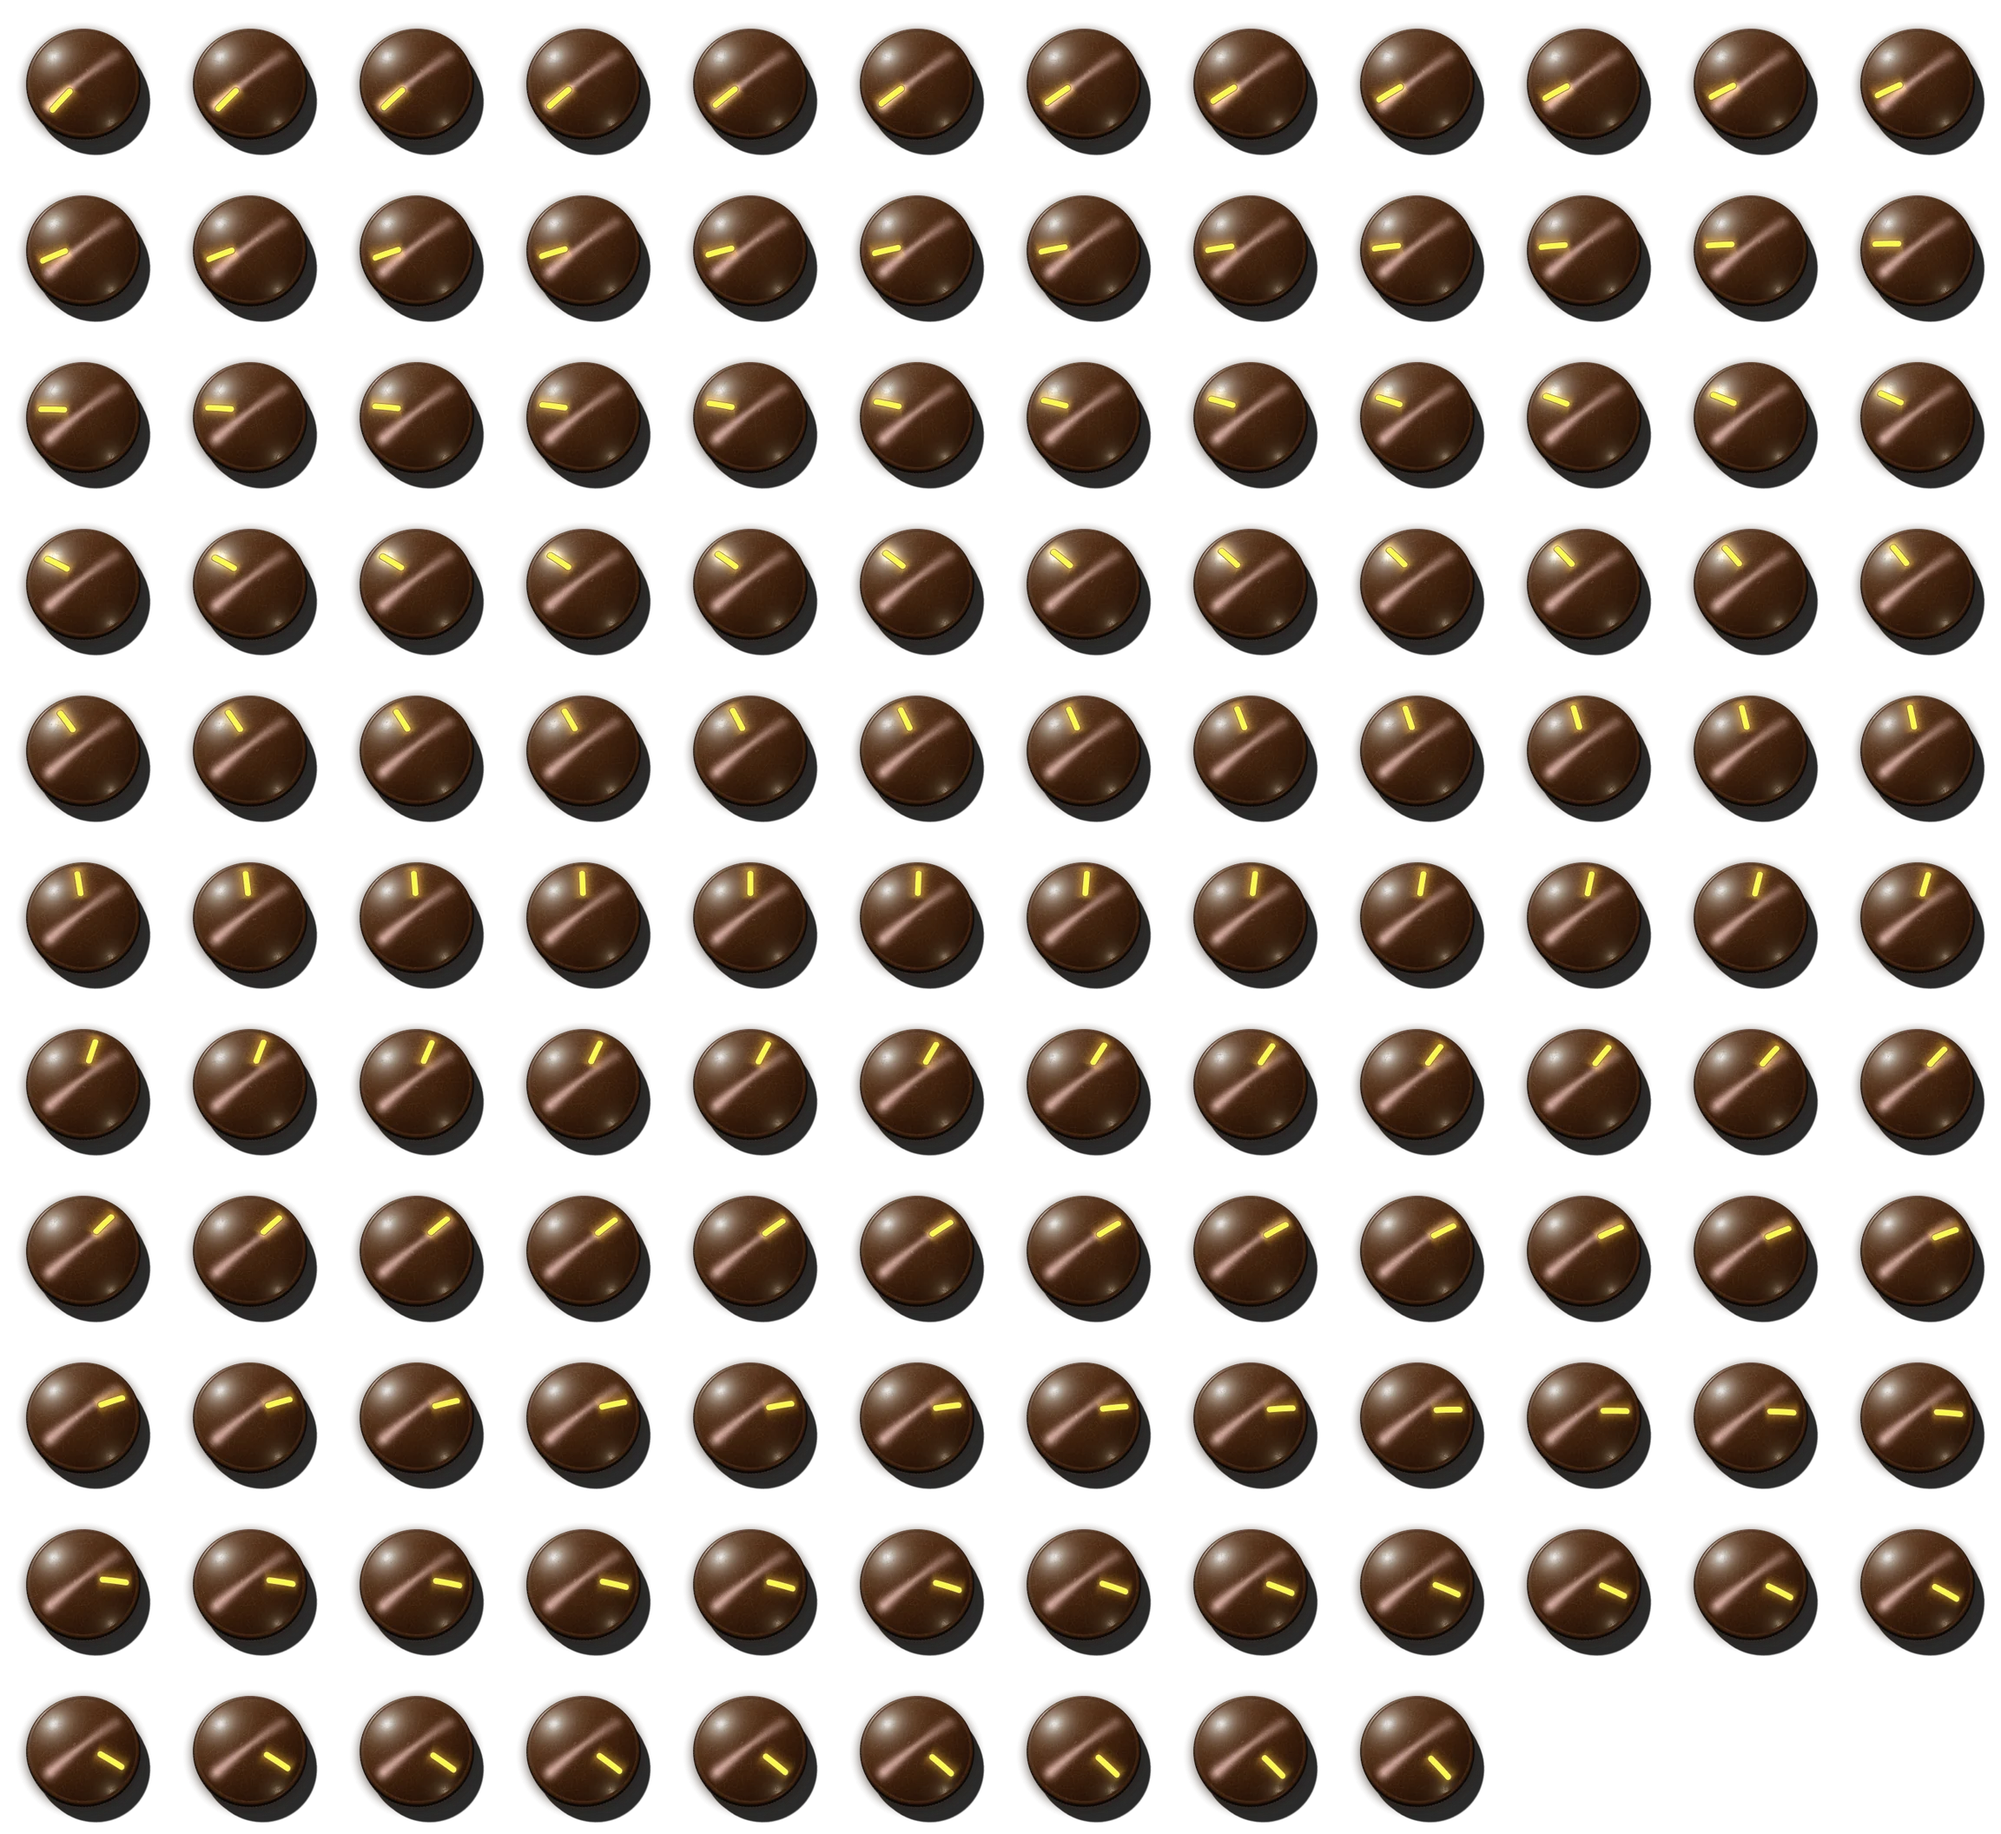
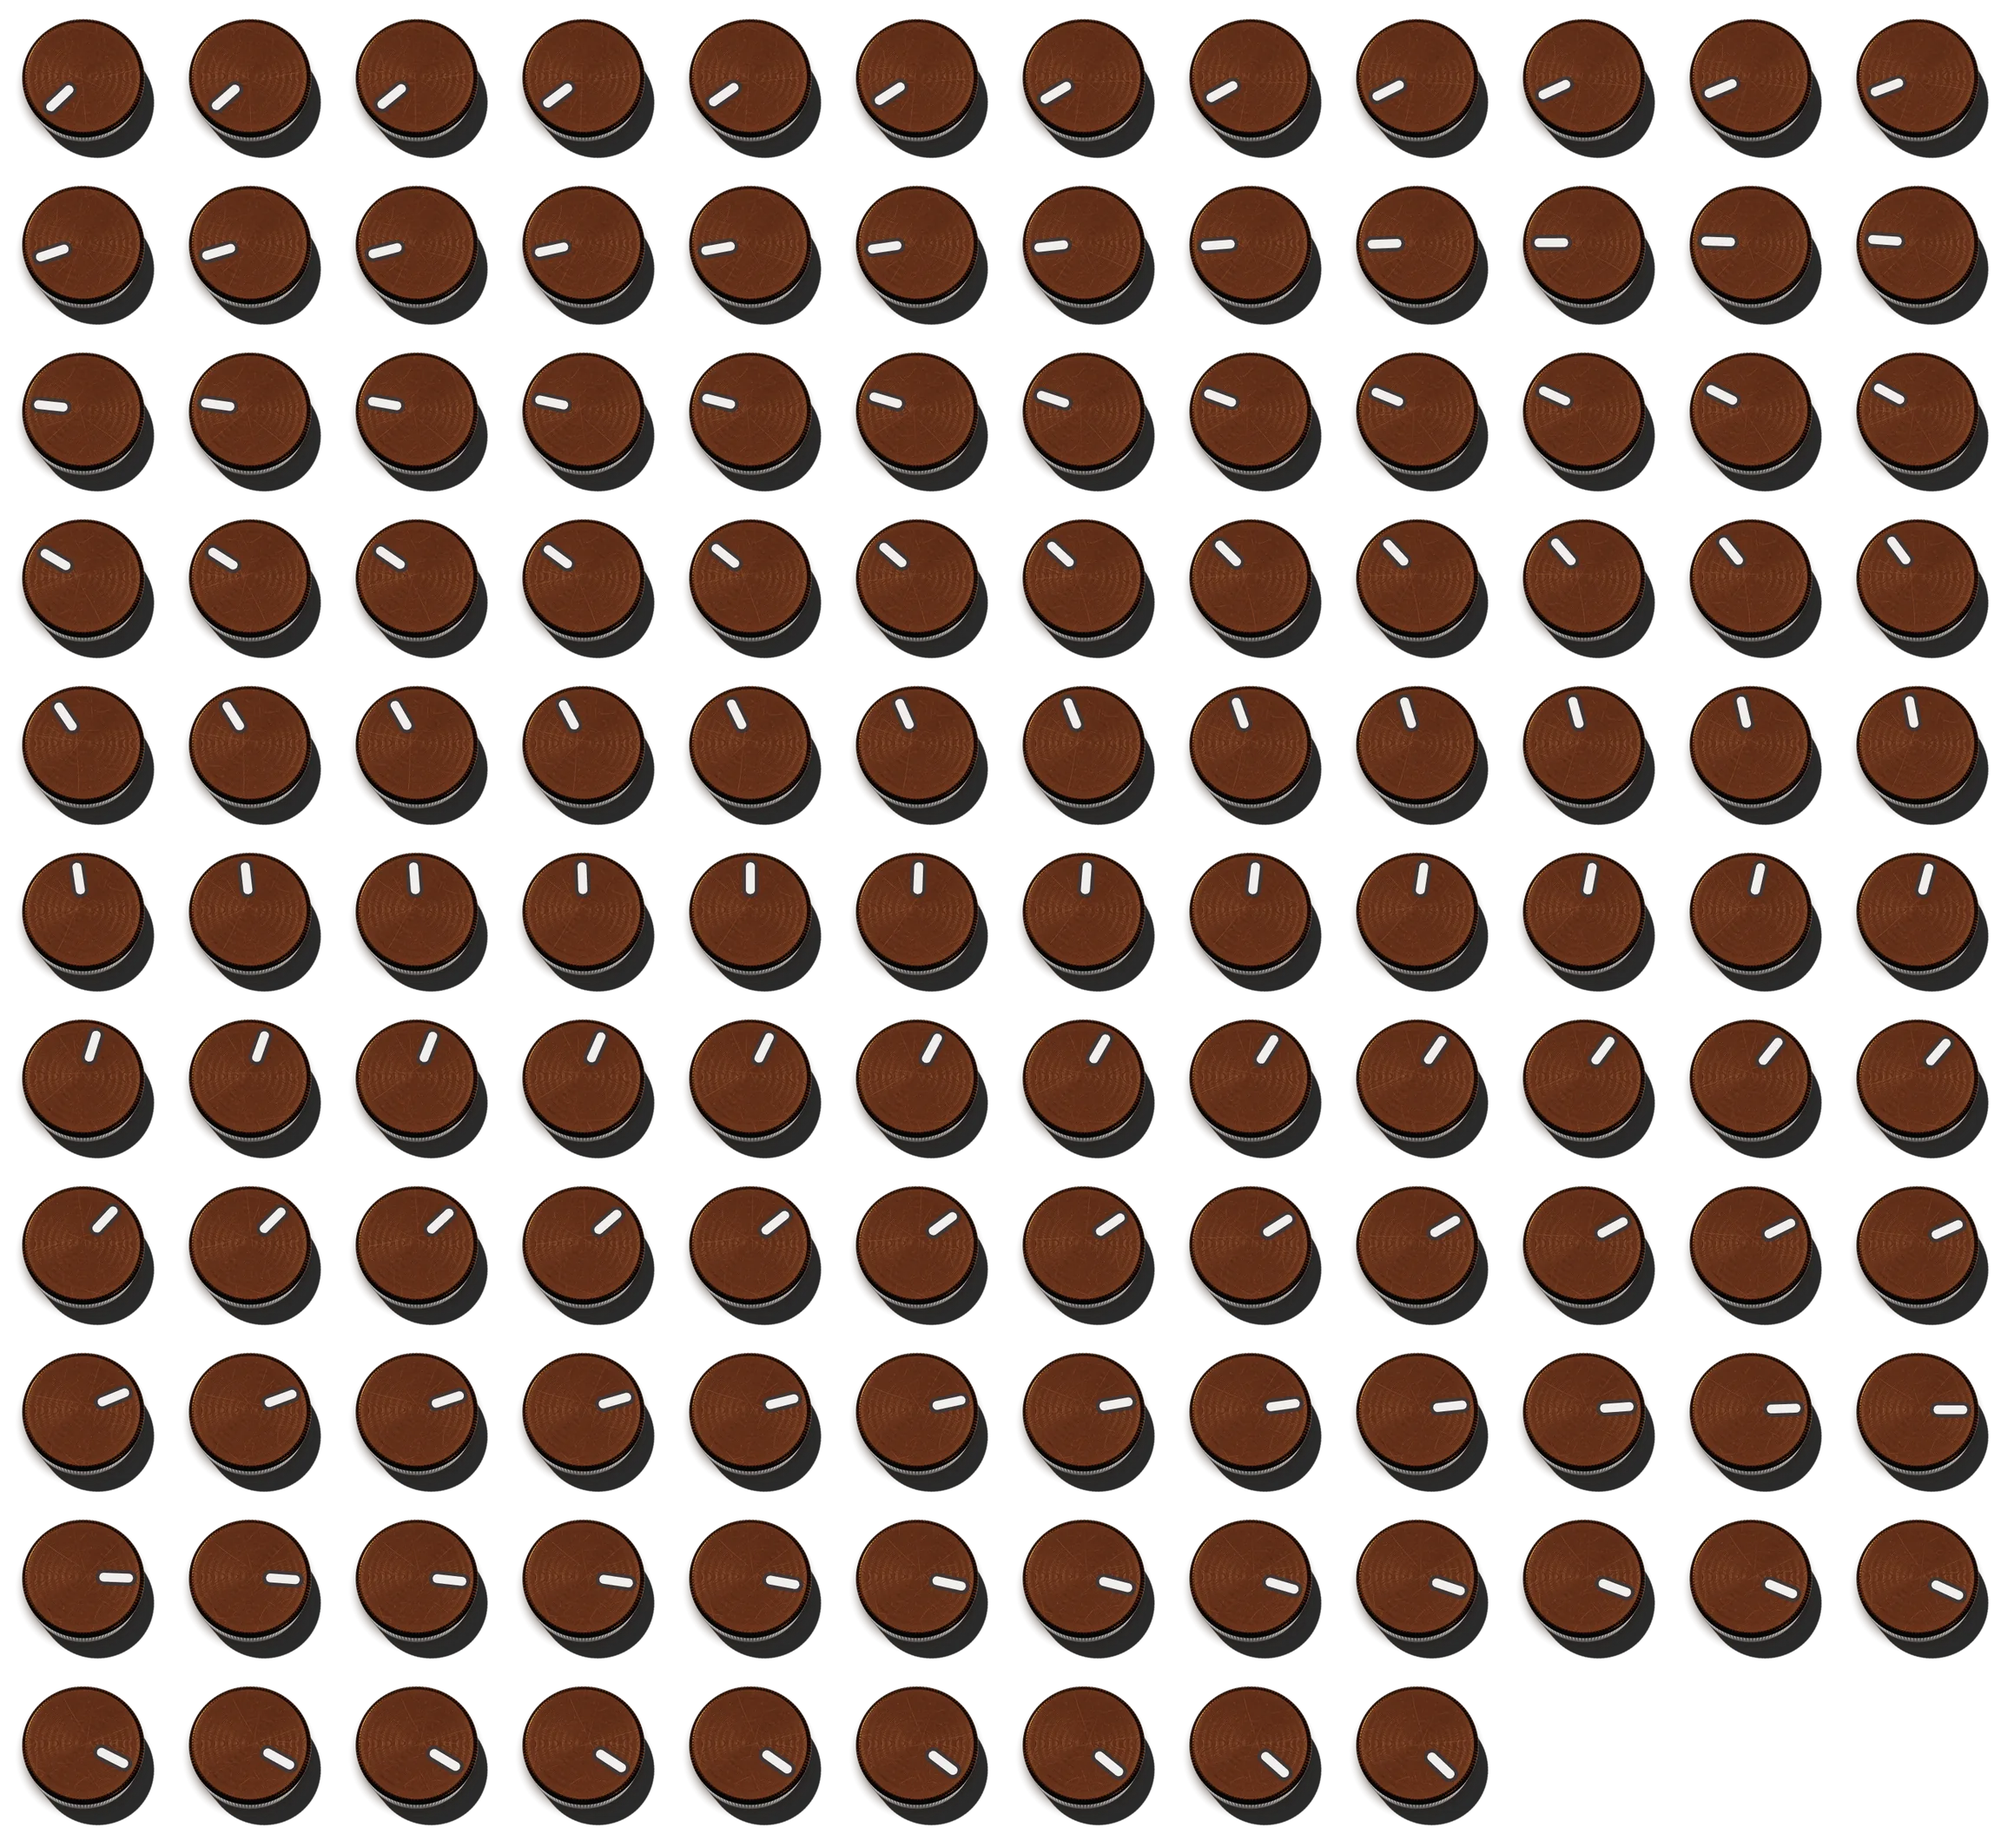
GAS 2 radio: Dan's KNOB LAB knobs (ALU, copper spun cap, white index) baked in (revaudio-59)
Dan 2026-10-29 exported a new look from the radio's KNOB LAB. Baked to 129
frames (k3dCss unchanged), webp q84 at 192 px; the lab now opens on this
recipe; the drone's landing frame re-rendered so touchdown still matches.

diff --git a/tools/_gas2-scene/player/radio.css b/tools/_gas2-scene/player/radio.css
@@ -97,8 +97,8 @@
 .rp-key.down span { transform: translateY(calc(2 * var(--u))); }
 .rp-key:focus-visible, .rp-knob:focus-visible { outline: calc(3 * var(--u)) solid var(--honey, #f2be4a); outline-offset: calc(3 * var(--u)); }
 
-/* knobs: Yoni's KNOB LAB look (2026-10-23: KNURL, gunmetal knurl, brown bakelite dome, glowing index), baked into
-   129 frames under the fixed house lamp (knoblab/make-knoblab.py; bake --foot=60,60,84,120). The box is the lab's
+/* knobs: Dan's KNOB LAB look (2026-10-29: machined ALU, copper-brown spun cap, white line index; was Yoni's KNURL),
+   baked into 129 frames under the fixed house lamp (knoblab/make-knoblab.py; bake --foot=60,60,84,120). The box is the lab's
    120 px .knob box; the strip sits in it where the bake says (k3dCss). A frame per angle: nothing ever rotates in CSS */
 .rp-knob { position: absolute; width: calc(120 * var(--u)); height: calc(120 * var(--u)); margin: calc(-60 * var(--u)) 0 0 calc(-60 * var(--u));
   border-radius: 50%; top: calc(530 * var(--u)); cursor: ns-resize; touch-action: none; }

diff --git a/tools/_gas2-scene/player/knoblab/make-knoblab.py b/tools/_gas2-scene/player/knoblab/make-knoblab.py
@@ -9,7 +9,7 @@ Never edit the output (gitignored); regenerate after a plate or lab change.
 Serve with the lab's own server, so EXPORT / LIBRARY saves land in the shared library:
   python C:/RevAudio/shared/tools/knob-lab/serve-lab.py 8798 --pages <this player folder>
   open http://127.0.0.1:8798/scratch/knoblab/radio-knoblab.html
-The lab opens on the look on the radio today (Yoni's recipe below), with its baked strip as the SHIPPED reference.
+The lab opens on the look on the radio today (the recipe below), with its baked strip as the SHIPPED reference.
 Bake (needs the :8793 bench server serving C:/RevAudio): see radio.css / the plan, --foot=60,60,84,120.
 """
 import hashlib, json
@@ -26,8 +26,9 @@ def tag(name):
     return hashlib.sha1((LAB / name).read_bytes()).hexdigest()[:8]
 
 
-# the look on the radio today (Yoni "done", 2026-10-23), baked into img/knob-radio.webp: 129 frames, 12 x 11
-SHIPPED = json.loads((HERE / "knob-recipe-yoni-2026-10-23.json").read_text(encoding="utf-8"))
+# the look on the radio today (Dan's EXPORT 2026-10-29: ALU; was Yoni's KNURL of 10-23), baked into img/knob-radio.webp:
+# 129 frames, 12 x 11, 192 px (the bake's 256 px, premultiplied downscale, webp q84)
+SHIPPED = json.loads((HERE / "knob-recipe-2026-10-29.json").read_text(encoding="utf-8"))
 K3D = "left:-1.391%;top:-3.326%;width:102.783%;height:102.783%"   # the strip in its .knob box (radio.css .rp-knob b)
 
 

diff --git a/tasks/handoff.md b/tasks/handoff.md
@@ -115,6 +115,17 @@ descent" section); this entry.
   http://127.0.0.1:8798/scratch/knoblab/radio-knoblab.html. Checked headless: LIVE 3D KNURL, SHIPPED = the strip, no page
   errors (one console 404 = favicon). Next: Dan's look in the lab -> EXPORT -> bake (`bake-knob-lab.js <recipe> <out>
   256 1 --foot=60,60,84,120`) -> `img/knob-radio.webp` + radio.css `.rp-knob b` k3dCss, then the page check.
+- Then (Dan, 2026-10-29: "i exported the knobs"): his EXPORT `shared/tools/knob-lab/library/saves/gas2radio/
+  gas2radio-knob-recipe-2026-10-29-1218.json` (the `-2` twin is equal as JSON; copy: `player/knoblab/knob-recipe-
+  2026-10-29.json`) = type ALU, linked: machined metal body, copper-brown spun cap (#52301e), white line index, no halo,
+  light az 130.6 / el 58.4. Baked (`bake-knob-lab.js ... 256 1 --foot=60,60,84,120`: no clipped edge, no pure #000 /
+  #fff; k3dCss unchanged -1.391 / -3.326 / 102.783 %, so radio.css keeps its numbers) -> 192 px frames (premultiplied
+  LANCZOS) webp q84 = `player/img/knob-radio.webp` 653 KB (was 518; q88 790 KB for p99 13 vs 14). The lab now opens on
+  this recipe. `drone/img/land.webp` re-rendered (the landing frame carries the radio: only the two knob areas changed).
+  Checked headless: radio before / after + a drag turns the new strip, no errors; `check.cjs` top 1440 + 390: landed =
+  `?drone=0` mean 0.00, landing frame 2.56 / 1.47 (the same noise map as before). Not seen by Dan on the page yet.
+  Shared clone, uncommitted (lab writes, Dan's): `tools/knob-lab/library/knobs.json` (his EXPORT card) +
+  `library/saves/gas2radio/` + `library/saves/library/knobs-before-2026-10-29-1218.json`.
 
 ## 2026-10-26 — GAS 2 page: the drone intro (hover above the station, scroll = descent, land, readings pop) (Claude Code `danavivi-19`, Dan's Mac) — BRANCH `feat/gas2-page`
 
